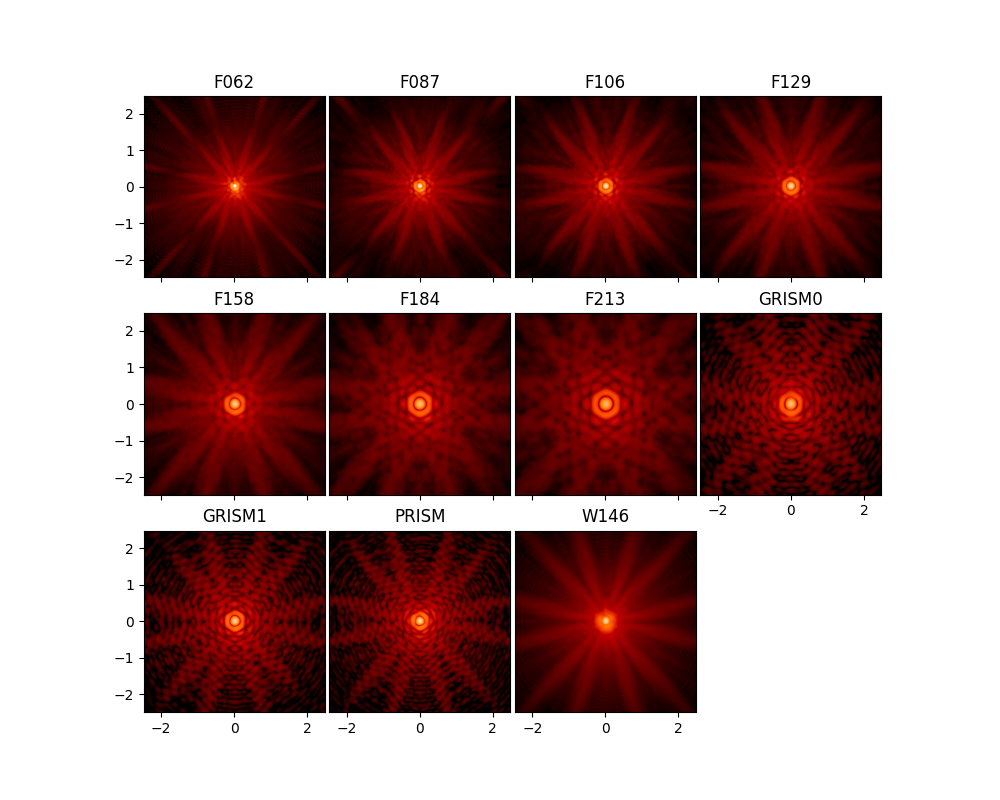
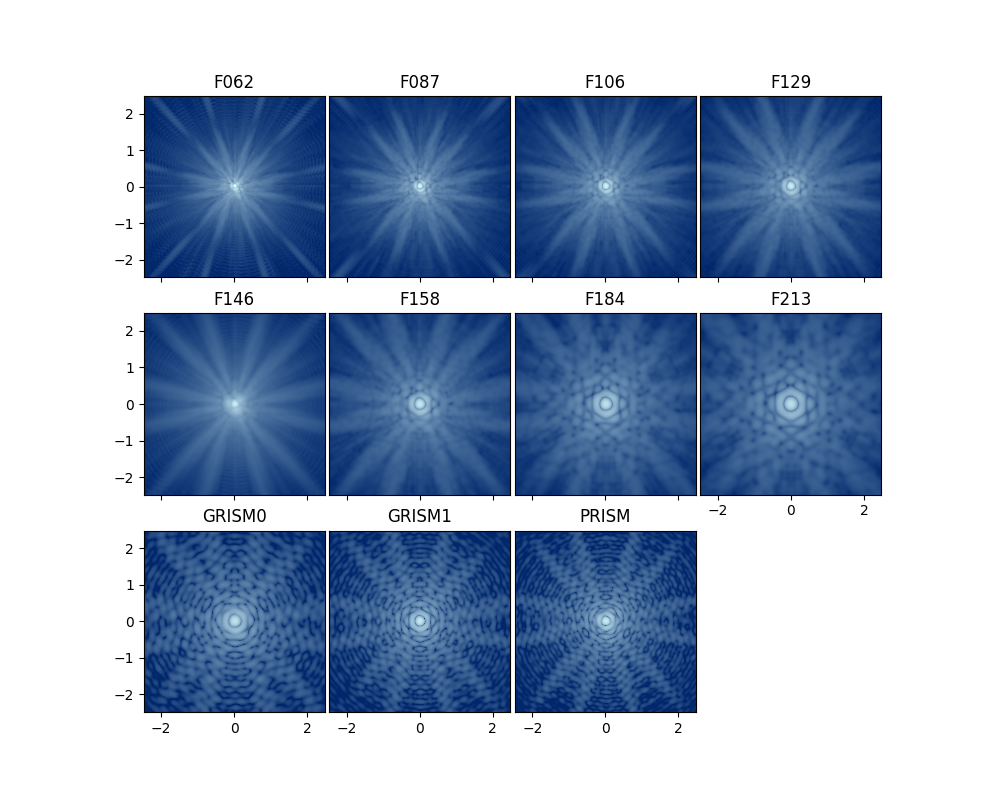
Update Roman docs figures

diff --git a/docs/roman_figures/how_tos.py b/docs/roman_figures/how_tos.py
@@ -1,7 +1,27 @@
+import matplotlib as mpl
 import matplotlib.pyplot as plt
+import numpy as np
 import os
-import stpsf
-from stpsf import display_psf, roman
+from stpsf import display_psf, display_psf_difference, roman
+
+#### Create Roman-specific color map
+roman_dark = mpl.colors.to_rgba('#00276b')
+roman_med = mpl.colors.to_rgba('#70cbff')
+roman_light = mpl.colors.to_rgba('#dbfeff')
+
+roman_light_rgb = tuple(int(255 * n) for n in roman_light[:3])
+roman_med_rgb = tuple(int(255 * n) for n in roman_med[:3])
+roman_dark_rgb = tuple(int(255 * n) for n in roman_dark[:3])
+
+map_dark_to_med = mpl.colors.ListedColormap(
+    np.linspace(roman_dark, roman_med, 256),
+    name='roman_dark_to_med')
+map_dark_to_med.set_bad('r', alpha=0)
+
+map_dark_to_light = mpl.colors.ListedColormap(
+    np.linspace(roman_dark, roman_light, 256),
+    name='roman_dark_to_light')
+map_dark_to_light.set_bad('r', alpha=0)
 
 #### Create stpsf_roman_page_header.png
 long = 4
@@ -27,7 +47,7 @@ for i, ifilter in enumerate(sorted(all_filters)):
 
     psf = wfi.calc_psf(oversample=4, nlambda=nlambda)
 
-    display_psf(psf, ax=ax, colorbar=False, title=ifilter)
+    display_psf(psf, ax=ax, colorbar=False, title=ifilter, cmap=map_dark_to_light)
 
     if i not in [0, 4, 8]:
         ax.tick_params(axis='y', length=0)
@@ -55,24 +75,13 @@ psf_wfi17 = wfi2.calc_psf()
 
 fig2, (ax_wfi09, ax_wfi17, ax_diff) = plt.subplots(1, 3, figsize=(16, 4))
 
-stpsf.display_psf(psf_wfi09, ax=ax_wfi09, imagecrop=2.0,
-                    title='WFI09, bottom left - F129')
-stpsf.display_psf(psf_wfi17, ax=ax_wfi17, imagecrop=2.0,
-                    title='WFI17, top right - F129')
-stpsf.display_psf_difference(psf_wfi09, psf_wfi17, ax=ax_diff,
-                               vmax=5e-3, title='WFI09 - WFI17', imagecrop=2.0)
+display_psf(psf_wfi09, ax=ax_wfi09, imagecrop=2.0,
+            title='WFI09, bottom left - F129', cmap=map_dark_to_light)
+display_psf(psf_wfi17, ax=ax_wfi17, imagecrop=2.0,
+            title='WFI17, top right - F129', cmap=map_dark_to_light)
+display_psf_difference(psf_wfi09, psf_wfi17, ax=ax_diff, imagecrop=2.0,
+                       vmax=5e-3, title='WFI09 - WFI17', cmap=map_dark_to_light)
 fig2.tight_layout(w_pad=.5)
 # fig2.savefig(os.path.join(os.path.dirname(os.path.abspath(__file__)),
 #                          'compare_wfi09_wfi17.png'),
-#              dpi=100, facecolor='w')
-
-
-#### Create fig_coronagraph_spc_f770.png
-cor = roman.RomanCoronagraph()
-cor.mode = "CHARSPC_F770"
-
-fig3, ax3 = plt.subplots(figsize=(8,7))
-mono_char_spc_psf = cor.calc_psf(nlambda=1, fov_arcsec=1.6, display=True)
-# fig3.savefig(os.path.join(os.path.dirname(os.path.abspath(__file__)),
-#                          'fig_coronagraph_spc_f770.png'),
 #              dpi=100, facecolor='w')

diff --git a/stpsf/utils.py b/stpsf/utils.py
@@ -912,7 +912,7 @@ def combine_docstrings(cls):
                 # i1: pull WFI-specific params
                 # get first letter in substring starting after "Parameters"
                 ind_i_post_params = ind_i0 + len(params)
-                ind_i_let = re.search('\w',
+                ind_i_let = re.search(r'\w',
                                       inst_doc[ind_i_post_params:]).span()[0]
 
                 # get last newline character before that letter in the substring

diff --git a/stpsf/roman.py b/stpsf/roman.py
@@ -460,7 +460,7 @@ class RomanInstrument(stpsf_core.SpaceTelescopeInstrument):
 
     @detector_position.setter
     def detector_position(self, position):
-        """Save new detector pixel position into the each detector's
+        """Save new detector pixel position into each detector's
         FieldDependentAberration instance. Update index of matching field
         point's slice in pupil file data cube."""
         try:
